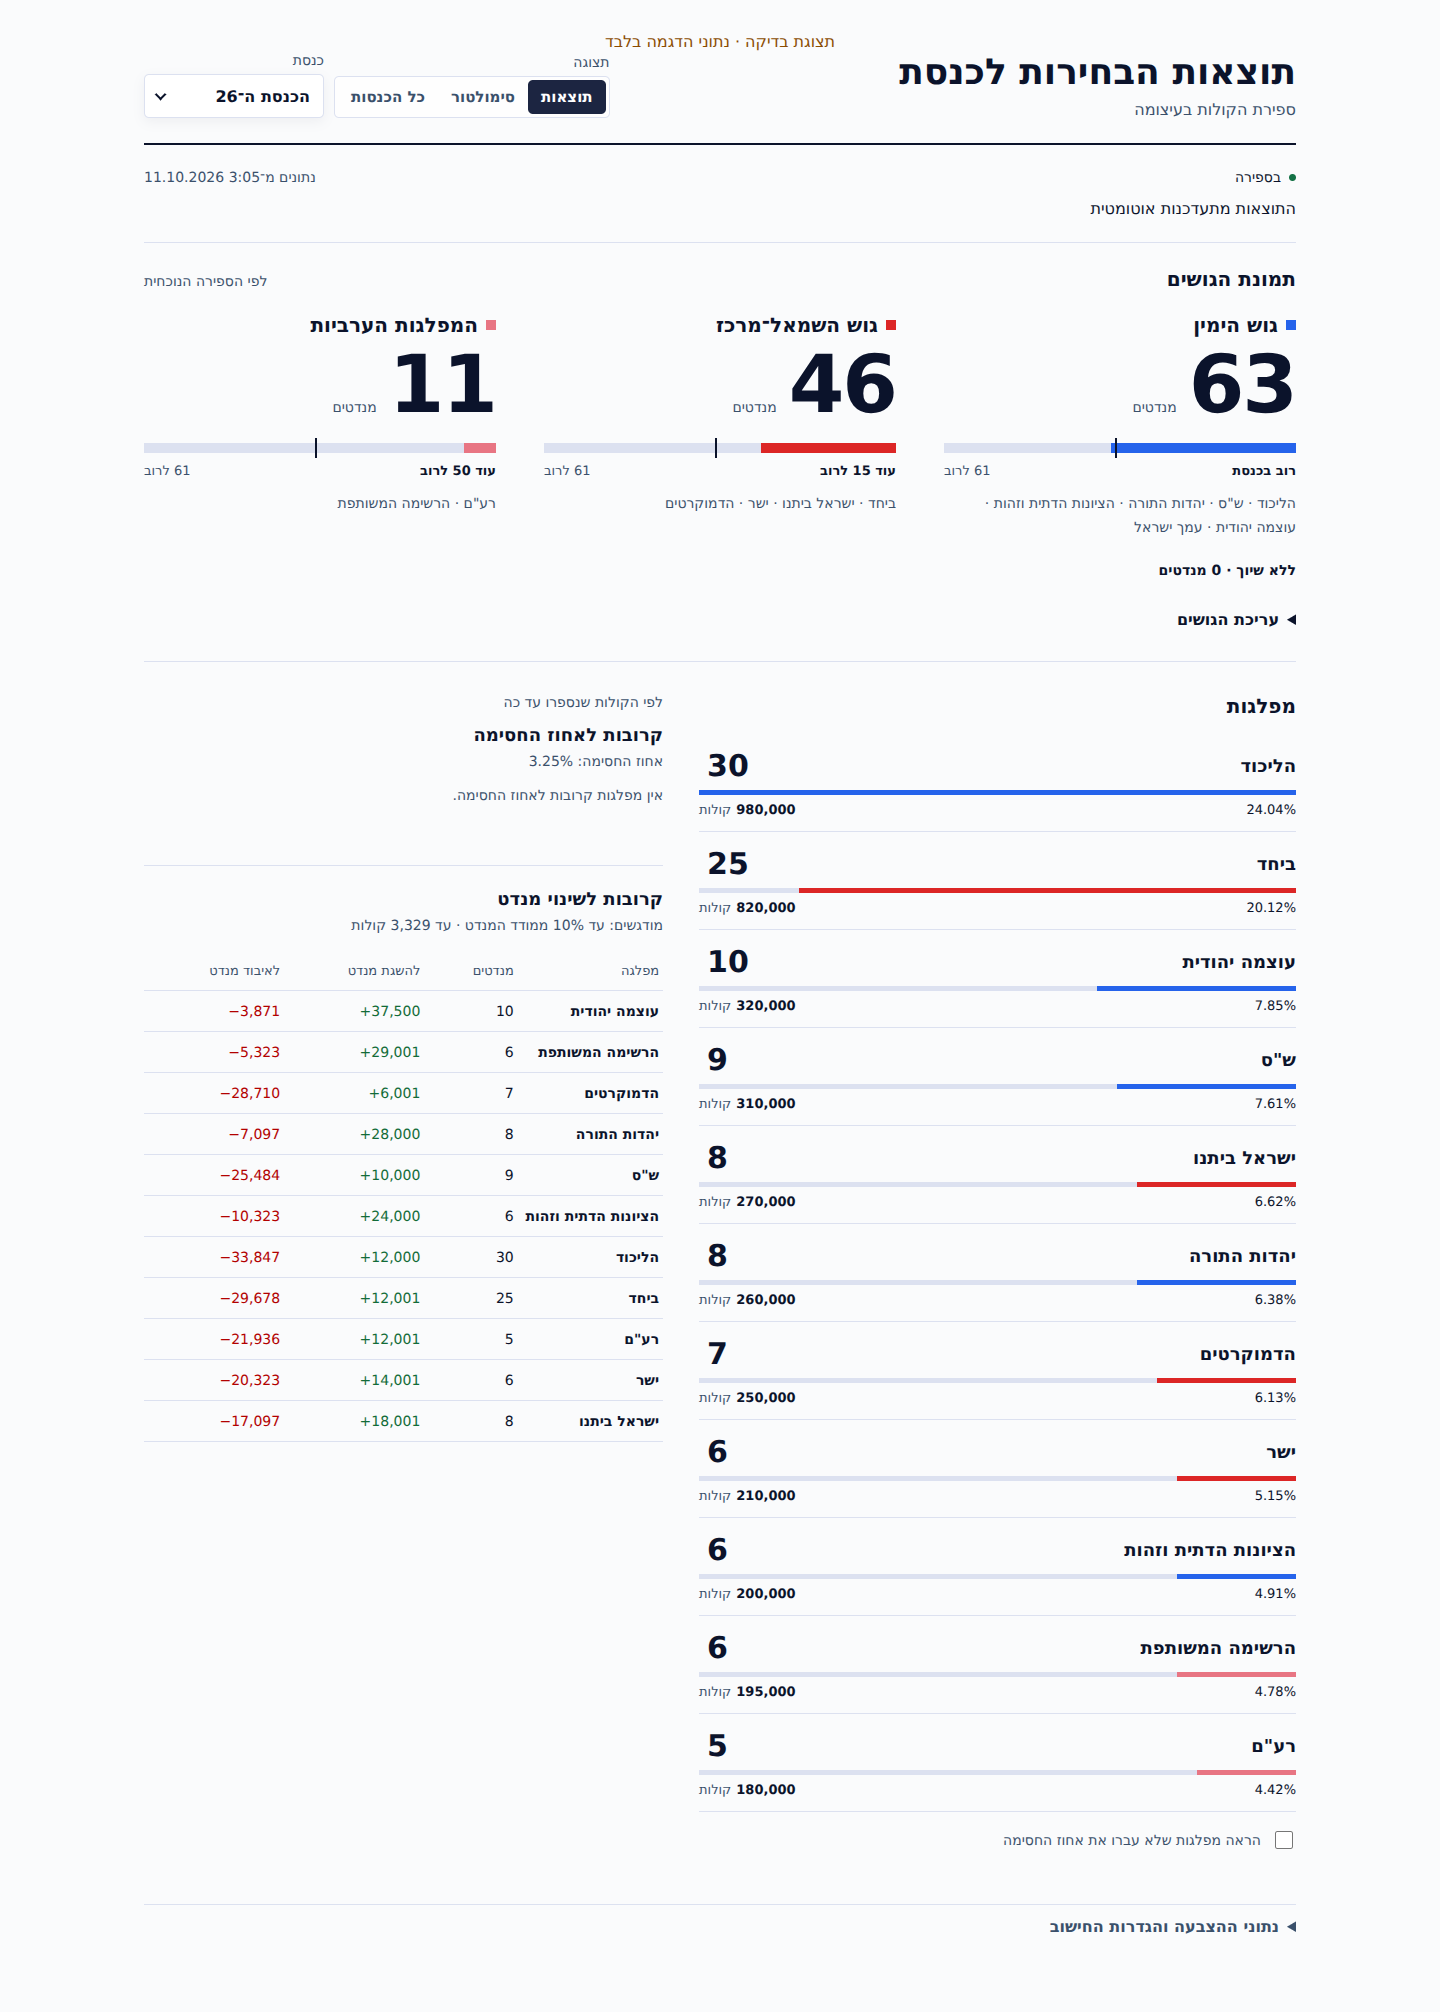
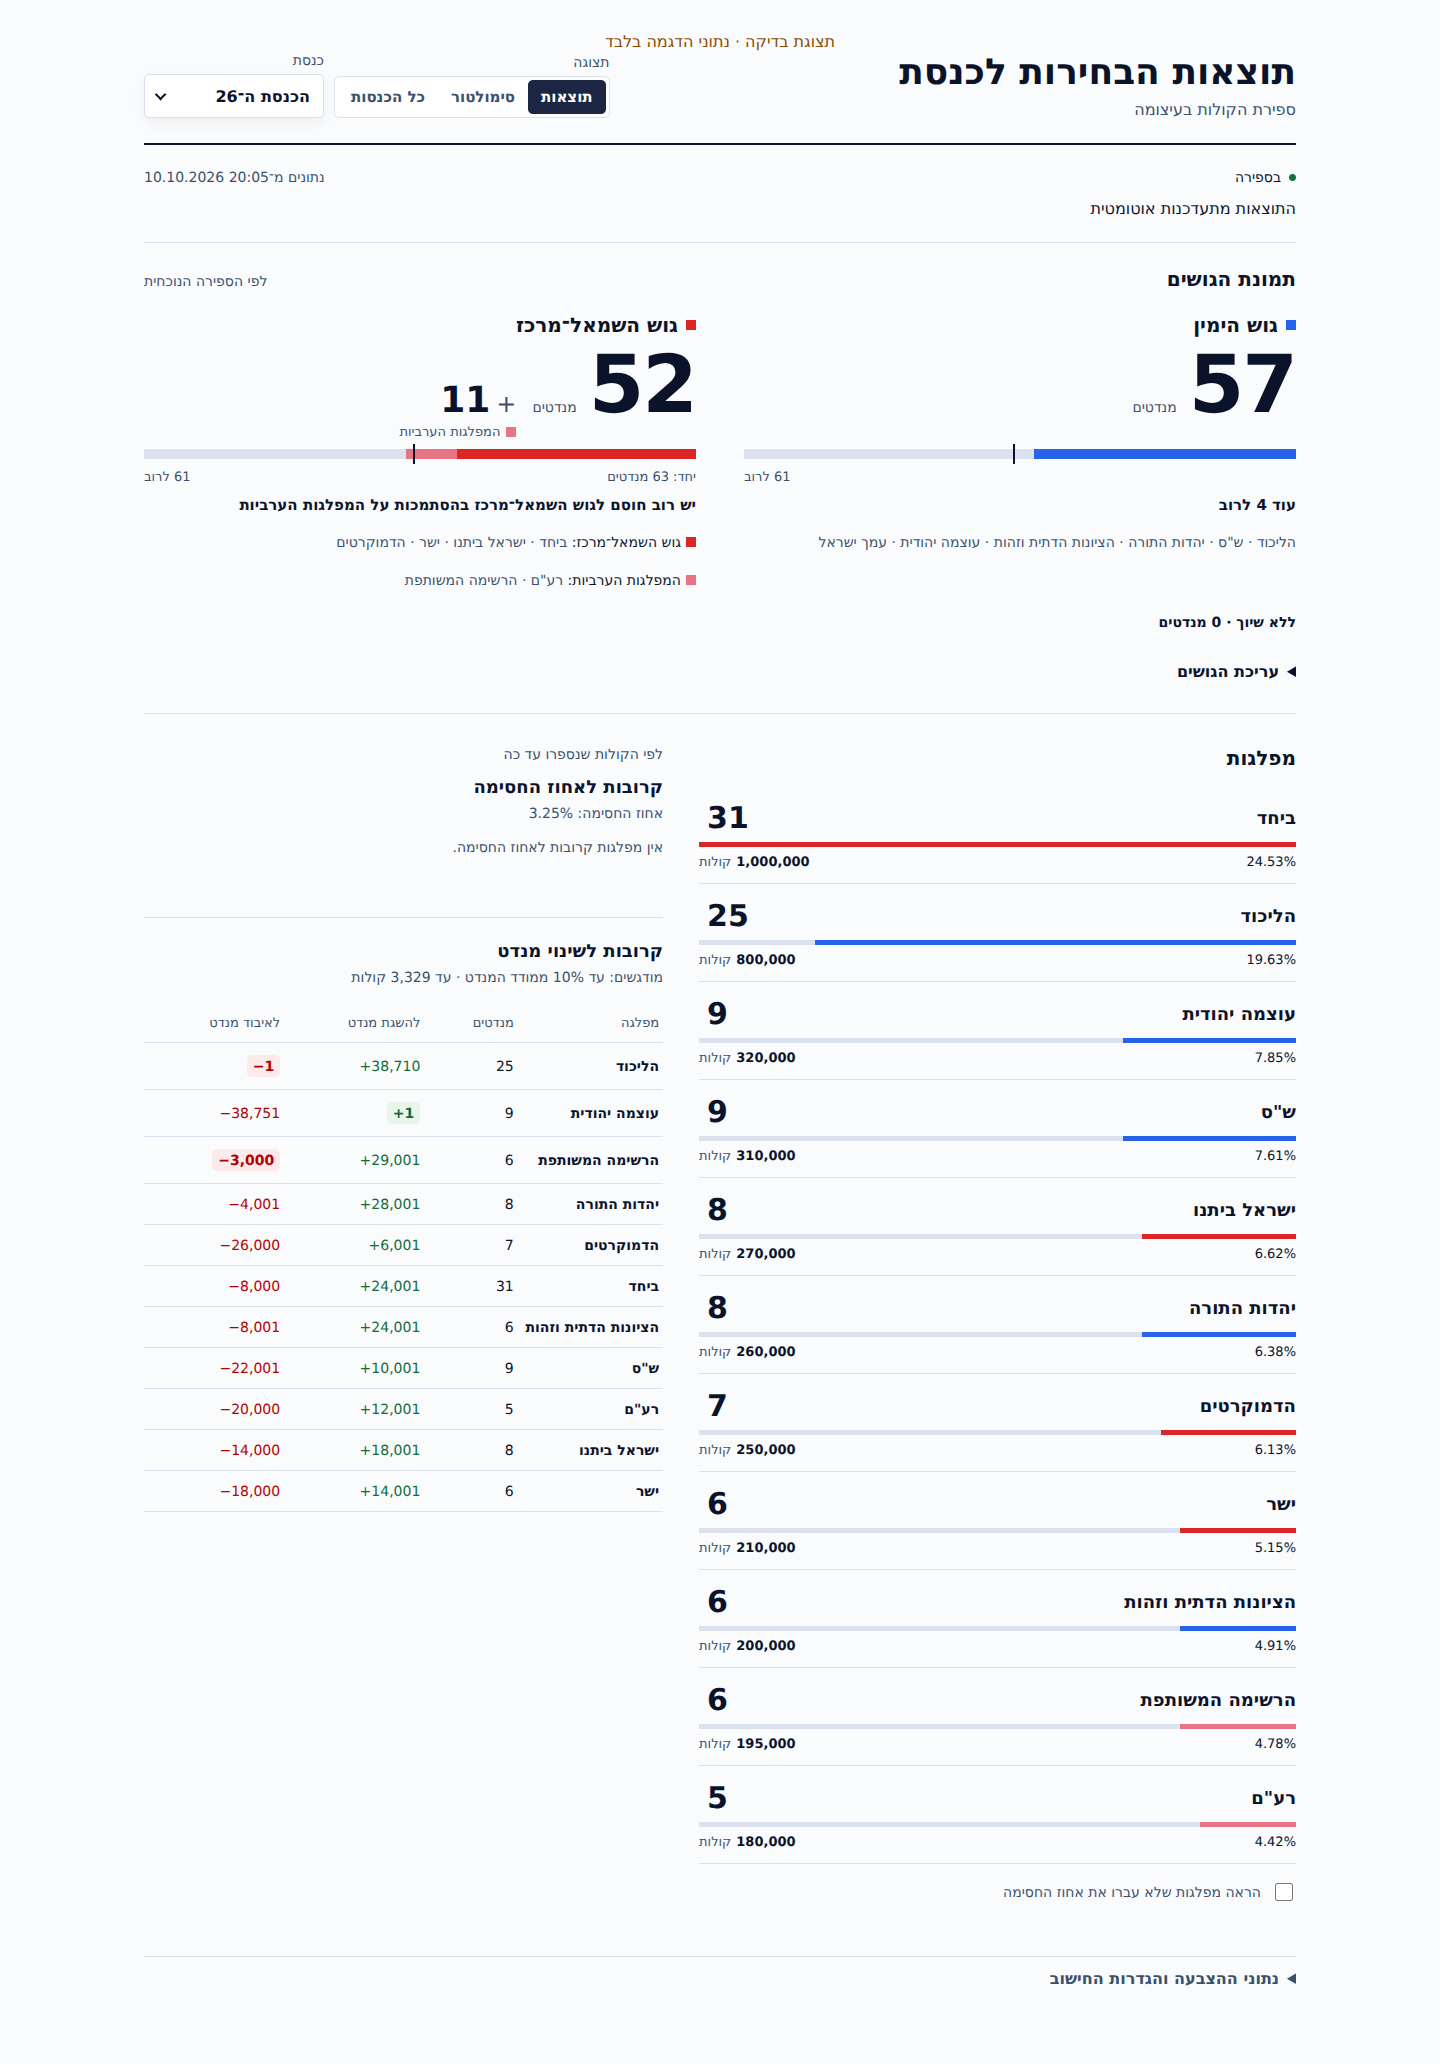
Show Arab parties as a complementary segment of the center-left bloc

diff --git a/elections-client/src/components/BlocsOverview.tsx b/elections-client/src/components/BlocsOverview.tsx
@@ -1,5 +1,6 @@
 import React from 'react';
 import type { BlocsConfig, ResultsMap } from '../types';
+import { computeBlocOverview } from '../lib/bloc-overview';
 
 interface Props {
   blocs: BlocsConfig;
@@ -23,6 +24,7 @@ export default function BlocsOverview({ blocs, totals, deltas, parties, results,
   getPartyName, onAssign, onRename, onReset, customized, saveFailed, hasResults,
   isCounting, isSimulator }: Props) {
   const order = blocs.order || Object.keys(blocs.blocks);
+  const overview = computeBlocOverview(blocs, totals);
   const assigned = parties.some((party) => partyToBloc[party]);
   const unassigned = parties.filter((party) => !partyToBloc[party]);
   const unassignedSeats = unassigned.reduce((sum, party) => sum + (results[party]?.mandats || 0), 0);
@@ -36,31 +38,62 @@ export default function BlocsOverview({ blocs, totals, deltas, parties, results,
       </div>
       {assigned ? (
         <>
-          <div className="bloc-scoreboard" style={{ '--bloc-count': order.length } as React.CSSProperties}>
-            {order.map((key) => {
+          <div className="bloc-scoreboard" style={{ '--bloc-count': overview.length } as React.CSSProperties}>
+            {overview.map(({ key, complementaryKeys, ownSeats, combinedSeats, majorityText }) => {
               const bloc = blocs.blocks[key];
-              const members = parties.filter((party) => partyToBloc[party] === key);
-              const total = totals[key] || 0;
               const delta = deltas[key] || 0;
+              const segments = [key, ...complementaryKeys];
+              const chartDescription = segments.map((segment) => `${blocs.blocks[segment].label}: ${totals[segment] || 0}`).join(', ');
               return (
                 <div className="bloc-score" key={key} style={{ '--bloc-color': bloc.color } as React.CSSProperties}>
                   <h3><span className="bloc-color" />{bloc.label}</h3>
-                  <div className="bloc-number">
-                    <strong>{hasResults ? total : '—'}</strong>
-                    {hasResults && <span>מנדטים</span>}
-                    {hasResults && delta !== 0 && <span dir="ltr" className={`delta-chip ${delta > 0 ? 'gain' : 'lose'}`}
-                      aria-label={`${delta > 0 ? 'תוספת' : 'ירידה של'} ${Math.abs(delta)} מנדטים ${isSimulator ? 'לעומת התוצאות' : 'מהעדכון הקודם'}`}>
-                      {delta > 0 ? '+' : '−'}{Math.abs(delta)}
-                    </span>}
+                  <div className="bloc-totals">
+                    <div className="bloc-number">
+                      <strong>{hasResults ? ownSeats : '—'}</strong>
+                      {hasResults && <span>מנדטים</span>}
+                      {hasResults && delta !== 0 && <span dir="ltr" className={`delta-chip ${delta > 0 ? 'gain' : 'lose'}`}
+                        aria-label={`${delta > 0 ? 'תוספת' : 'ירידה של'} ${Math.abs(delta)} מנדטים ${isSimulator ? 'לעומת התוצאות' : 'מהעדכון הקודם'}`}>
+                        {delta > 0 ? '+' : '−'}{Math.abs(delta)}
+                      </span>}
+                    </div>
+                    {complementaryKeys.map((other) => (
+                      <div className="bloc-complement" key={other}>
+                        <div className="bloc-complement-value">
+                          <span aria-hidden="true">+</span>
+                          <strong>{hasResults ? totals[other] || 0 : '—'}</strong>
+                          {hasResults && !!deltas[other] && <span dir="ltr" className={`delta-chip ${deltas[other] > 0 ? 'gain' : 'lose'}`}
+                            aria-label={`שינוי של ${deltas[other]} מנדטים ${isSimulator ? 'לעומת התוצאות' : 'מהעדכון הקודם'}`}>
+                            {deltas[other] > 0 ? '+' : '−'}{Math.abs(deltas[other])}
+                          </span>}
+                        </div>
+                        <span className="bloc-complement-label"><span className="bloc-color" style={{ background: blocs.blocks[other].color }} />{blocs.blocks[other].label}</span>
+                      </div>
+                    ))}
                   </div>
+                  <div className="bloc-outcome">
                   {hasResults && <>
-                    <div className="majority-track" role="img" aria-label={`${bloc.label}: ${total} מתוך 120 מנדטים, רוב ב־61`}>
-                      <div style={{ width: `${Math.min(total, 120) / 120 * 100}%` }} />
+                    <div className="majority-track" role="img" aria-label={`${chartDescription}. סך הכול ${combinedSeats} מתוך 120 מנדטים, רוב ב־61`}>
+                      {segments.map((segment) => <div key={segment}
+                        style={{ width: `${Math.min(totals[segment] || 0, 120) / 120 * 100}%`, background: blocs.blocks[segment].color }} />)}
                       <span className="majority-marker" />
                     </div>
-                    <div className="majority-caption"><span>{total >= 61 ? 'רוב בכנסת' : `עוד ${61 - total} לרוב`}</span><span>61 לרוב</span></div>
+                    <div className="majority-caption">
+                      {complementaryKeys.length > 0 && <span>יחד: {combinedSeats} מנדטים</span>}
+                      <span>61 לרוב</span>
+                    </div>
+                    <p className="majority-status">{majorityText}</p>
                   </>}
-                  <p className="bloc-members">{members.length ? members.map(getPartyName).join(' · ') : 'אין מפלגות משויכות'}</p>
+                  </div>
+                  <div className="bloc-members-list">
+                  {segments.map((segment) => {
+                    const members = parties.filter((party) => partyToBloc[party] === segment);
+                    return <p className="bloc-members" key={segment}>
+                      {complementaryKeys.length > 0 && <span className="bloc-members-label">
+                        <span className="bloc-color" style={{ background: blocs.blocks[segment].color }} />{blocs.blocks[segment].label}: </span>}
+                      {members.length ? members.map(getPartyName).join(' · ') : 'אין מפלגות משויכות'}
+                    </p>;
+                  })}
+                  </div>
                 </div>
               );
             })}

diff --git a/elections-client/src/styles.css b/elections-client/src/styles.css
@@ -1344,8 +1344,8 @@ body {
 .bloc-heading { display: flex; align-items: baseline; justify-content: space-between; gap: 12px; flex-wrap: wrap; }
 .bloc-heading h2 { font-size: 20px; margin: 0; }
 .bloc-heading > span, .bloc-empty { font-size: 14px; color: var(--ink-50); }
-.bloc-scoreboard { display: grid; grid-template-columns: repeat(var(--bloc-count, 2), minmax(0, 1fr)); gap: 48px; margin-top: 22px; }
-.bloc-score { min-width: 0; }
+.bloc-scoreboard { display: grid; grid-template-columns: repeat(var(--bloc-count, 2), minmax(0, 1fr)); gap: 0 48px; margin-top: 22px; }
+.bloc-score { min-width: 0; display: grid; grid-template-rows: subgrid; grid-row: span 4; }
 .bloc-score h3 { display: flex; align-items: center; gap: 8px; margin: 0; font-size: 20px; overflow-wrap: anywhere; }
 .bloc-color { width: 10px; height: 10px; flex-shrink: 0; background: var(--bloc-color); }
 .bloc-number { display: flex; gap: 12px; align-items: baseline; font-variant-numeric: tabular-nums; }
@@ -1353,11 +1353,20 @@ body {
 .bloc-number > span { color: var(--ink-50); font-size: 14px; }
 .bloc-number .delta-chip.gain { color: #0f7a34; font-size: 20px; }
 .bloc-number .delta-chip.lose { color: #b20000; font-size: 20px; }
-.majority-track { position: relative; background: var(--ink-20); height: 10px; margin-top: 10px; }
-.majority-track > div { height: 100%; background: var(--bloc-color); transition: width 300ms ease; }
+.majority-track { display: flex; position: relative; background: var(--ink-20); height: 10px; margin-top: 10px; }
+.majority-track > div { flex-shrink: 0; height: 100%; background: var(--bloc-color); transition: width 300ms ease; }
 .majority-marker { position: absolute; inset-inline-start: 50.8333%; top: -5px; height: 20px; width: 2px; background: var(--ink-90); }
 .majority-caption { display: flex; justify-content: space-between; margin-top: 10px; font-size: 13px; color: var(--ink-50); }
-.majority-caption > span:first-child { color: var(--ink-90); font-weight: 700; }
+.majority-caption > span:last-child { margin-inline-start: auto; }
+.majority-status { margin: 10px 0 0; font-size: 15px; font-weight: 700; line-height: 1.5; }
+.bloc-totals { display: flex; align-items: baseline; gap: 16px; flex-wrap: wrap; }
+.bloc-complement { display: flex; flex-direction: column; gap: 3px; }
+.bloc-complement-value { display: flex; align-items: baseline; gap: 6px; font-variant-numeric: tabular-nums; }
+.bloc-complement-value strong { font-size: 36px; line-height: 1.2; }
+.bloc-complement-value > span:first-child { font-size: 24px; color: var(--ink-50); }
+.bloc-complement-label { display: flex; align-items: center; gap: 6px; font-size: 13px; color: var(--ink-50); }
+.bloc-members-label { color: var(--ink-90); }
+.bloc-members-label .bloc-color { display: inline-block; margin-inline-end: 5px; }
 .bloc-members { font-size: 14px; line-height: 1.7; color: var(--ink-50); margin: 14px 0 0; overflow-wrap: anywhere; }
 .unassigned-summary { display: flex; flex-wrap: wrap; gap: 8px 16px; margin-top: 22px; font-size: 14px; }
 .unassigned-summary > span { color: var(--ink-50); }
@@ -1412,23 +1421,14 @@ body {
   .screen { padding: 20px 16px 40px; }
   .header { gap: 16px; }
   .results-layout { grid-template-columns: minmax(0, 1fr); gap: 30px; }
-  .bloc-scoreboard { grid-template-columns: repeat(2, minmax(0, 1fr)); gap: 24px; }
-  .bloc-scoreboard > .bloc-score:last-child:nth-child(odd) {
-    grid-column: 1 / -1;
-    display: grid;
-    grid-template-columns: minmax(0, 1fr) auto;
-    align-items: center;
-    border-top: 1px solid var(--ink-20);
-    padding-top: 16px;
-  }
-  .bloc-scoreboard > .bloc-score:last-child:nth-child(odd) > .majority-track,
-  .bloc-scoreboard > .bloc-score:last-child:nth-child(odd) > .majority-caption,
-  .bloc-scoreboard > .bloc-score:last-child:nth-child(odd) > .bloc-members { grid-column: 1 / -1; }
-  .bloc-scoreboard > .bloc-score:last-child:nth-child(odd) .bloc-number strong { font-size: 40px; }
+  .bloc-scoreboard { grid-template-columns: repeat(2, minmax(0, 1fr)); gap: 0 24px; }
   .bloc-name-fields { grid-template-columns: minmax(0, 1fr); }
   .bloc-score h3 { font-size: 17px; }
   .bloc-number { gap: 6px; flex-wrap: wrap; }
   .bloc-number strong { font-size: 56px; }
+  .bloc-totals { gap: 8px; }
+  .bloc-complement-value strong { font-size: 30px; }
+  .majority-status { font-size: 14px; }
   .bloc-number > span { font-size: 12px; }
   .bloc-assignments { grid-template-columns: minmax(0, 1fr); }
   .bloc-settings input, .bloc-settings select { font-size: 16px; }
@@ -1437,6 +1437,6 @@ body {
 }
 @media (max-width: 380px) {
   .bloc-number > span:not(.delta-chip) { display: none; }
-  .bloc-scoreboard { gap: 16px; }
+  .bloc-scoreboard { gap: 0 16px; }
   .bloc-name-fields { grid-template-columns: minmax(0, 1fr); }
 }

diff --git a/elections-client/src/lib/bloc-overview.test.ts b/elections-client/src/lib/bloc-overview.test.ts
@@ -1,0 +1,48 @@
+import assert from 'node:assert/strict';
+import { describe, it } from 'node:test';
+import { computeBlocOverview } from './bloc-overview';
+import { computeBlocMap, computeBlocTotals } from './analytics';
+import configs from '../data/blocs.json';
+
+describe('complementary bloc overview', () => {
+  const blocs = configs['26'];
+
+  it('shows the Arab parties once, supplementing the center-left without absorbing their seats', () => {
+    const rows = computeBlocOverview(blocs, { gushA: 59, gushB: 50, gushC: 11 });
+    assert.deepEqual(rows.map((row) => row.key), ['gushA', 'gushB']);
+    assert.equal(rows[0].combinedSeats, 59);
+    assert.equal(rows[1].ownSeats, 50);
+    assert.equal(rows[1].combinedSeats, 61);
+    assert.deepEqual(rows[1].complementaryKeys, ['gushC']);
+    assert.equal(rows[1].majorityText, 'יש רוב חוסם לגוש השמאל־מרכז בהסתמכות על המפלגות הערביות');
+  });
+
+  it('gives an independent majority precedence and never calls 60 a majority', () => {
+    assert.equal(computeBlocOverview(blocs, { gushB: 61, gushC: 10 })[1].majorityText,
+      'יש רוב לגוש השמאל־מרכז');
+    assert.equal(computeBlocOverview(blocs, { gushB: 50, gushC: 10 })[1].majorityText,
+      'עוד 1 לרוב חוסם');
+    assert.equal(computeBlocOverview(blocs, { gushA: 61 })[0].majorityText, 'יש רוב לגוש הימין');
+  });
+
+  it('respects moving and unassigning parties rather than counting their original affiliation', () => {
+    const results = { רק: { votes: 100, mandats: 50 }, עם: { votes: 30, mandats: 11 } };
+    const assignments = computeBlocMap(blocs);
+    const moved = computeBlocOverview(blocs, computeBlocTotals(results, blocs, { ...assignments, עם: 'gushB' }))[1];
+    assert.equal(moved.ownSeats, 61);
+    assert.equal(moved.combinedSeats, 61);
+    assert.equal(moved.majorityText, 'יש רוב לגוש השמאל־מרכז');
+    const unassigned = computeBlocOverview(blocs, computeBlocTotals(results, blocs, { ...assignments, עם: null }))[1];
+    assert.equal(unassigned.combinedSeats, 50);
+    assert.equal(unassigned.majorityText, 'עוד 11 לרוב חוסם');
+  });
+
+  it('keeps historical blocs independent and uses custom labels in majority messages', () => {
+    const historical = computeBlocOverview({ blocks: configs['25'].blocks }, {});
+    assert.equal(historical.length, 2);
+    assert.ok(historical.every((row) => row.complementaryKeys.length === 0));
+    const renamed = { ...blocs, blocks: { ...blocs.blocks, gushB: { ...blocs.blocks.gushB, label: 'מחנה א' } } };
+    assert.equal(computeBlocOverview(renamed, { gushB: 60, gushC: 1 })[1].majorityText,
+      'יש רוב חוסם למחנה א בהסתמכות על המפלגות הערביות');
+  });
+});

diff --git a/elections-client/src/lib/bloc-overview.ts b/elections-client/src/lib/bloc-overview.ts
@@ -1,0 +1,21 @@
+import type { BlocsConfig } from '../types';
+
+export const computeBlocOverview = (blocs: BlocsConfig, totals: Record<string, number>) => {
+  const order = blocs.order || Object.keys(blocs.blocks);
+  const primaryKeys = order.filter((key) => !blocs.blocks[key].complementaryTo);
+
+  return primaryKeys.map((key) => {
+    const complementaryKeys = order.filter((other) => blocs.blocks[other].complementaryTo === key);
+    const ownSeats = totals[key] || 0;
+    const combinedSeats = complementaryKeys.reduce((sum, other) => sum + (totals[other] || 0), ownSeats);
+    const label = blocs.blocks[key].label;
+    const complementLabel = complementaryKeys.map((other) => blocs.blocks[other].label).join(' ו');
+    const majorityText = ownSeats >= 61
+      ? `יש רוב ל${label}`
+      : combinedSeats >= 61
+        ? `יש רוב חוסם ל${label} בהסתמכות על ${complementLabel}`
+        : `עוד ${61 - combinedSeats} ל${complementaryKeys.length ? 'רוב חוסם' : 'רוב'}`;
+
+    return { key, complementaryKeys, ownSeats, combinedSeats, majorityText };
+  });
+};

diff --git a/elections-client/src/types.ts b/elections-client/src/types.ts
@@ -25,7 +25,7 @@ export interface ElectionConfig {
 }
 
 export interface BlocsConfig {
-  blocks: Record<string, { label: string; color: string; parties: string[] }>;
+  blocks: Record<string, { label: string; color: string; parties: string[]; complementaryTo?: string }>;
   order?: string[];
 }
 
